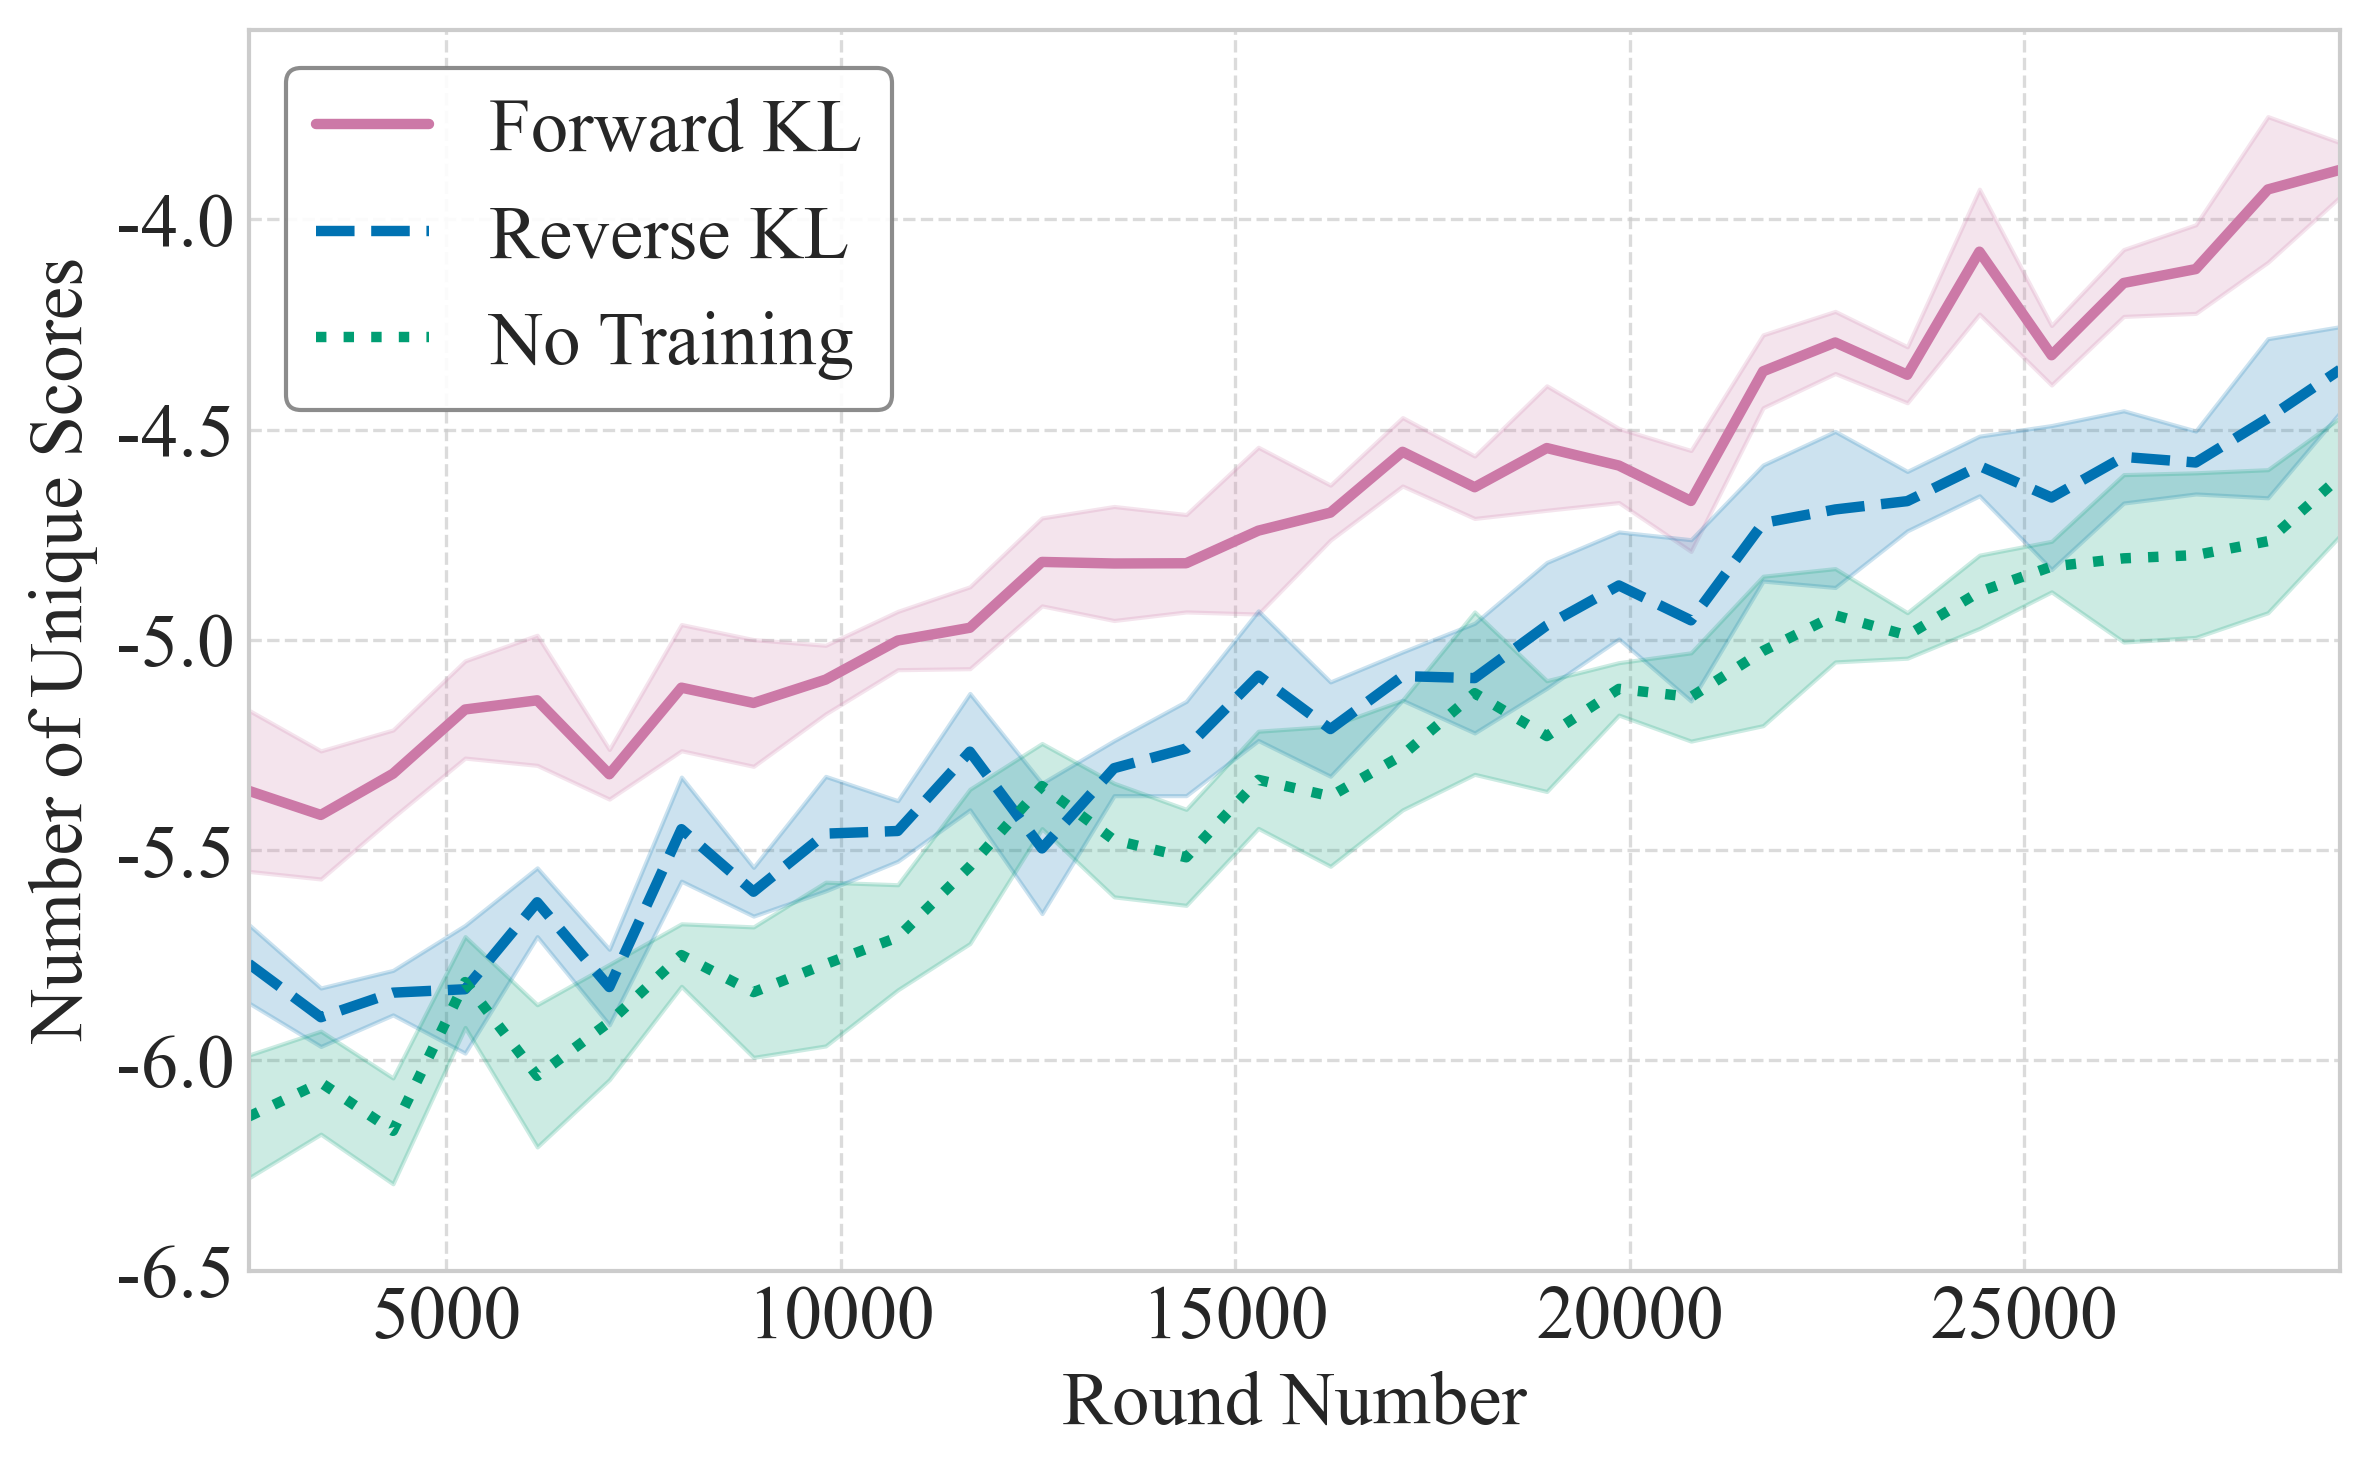
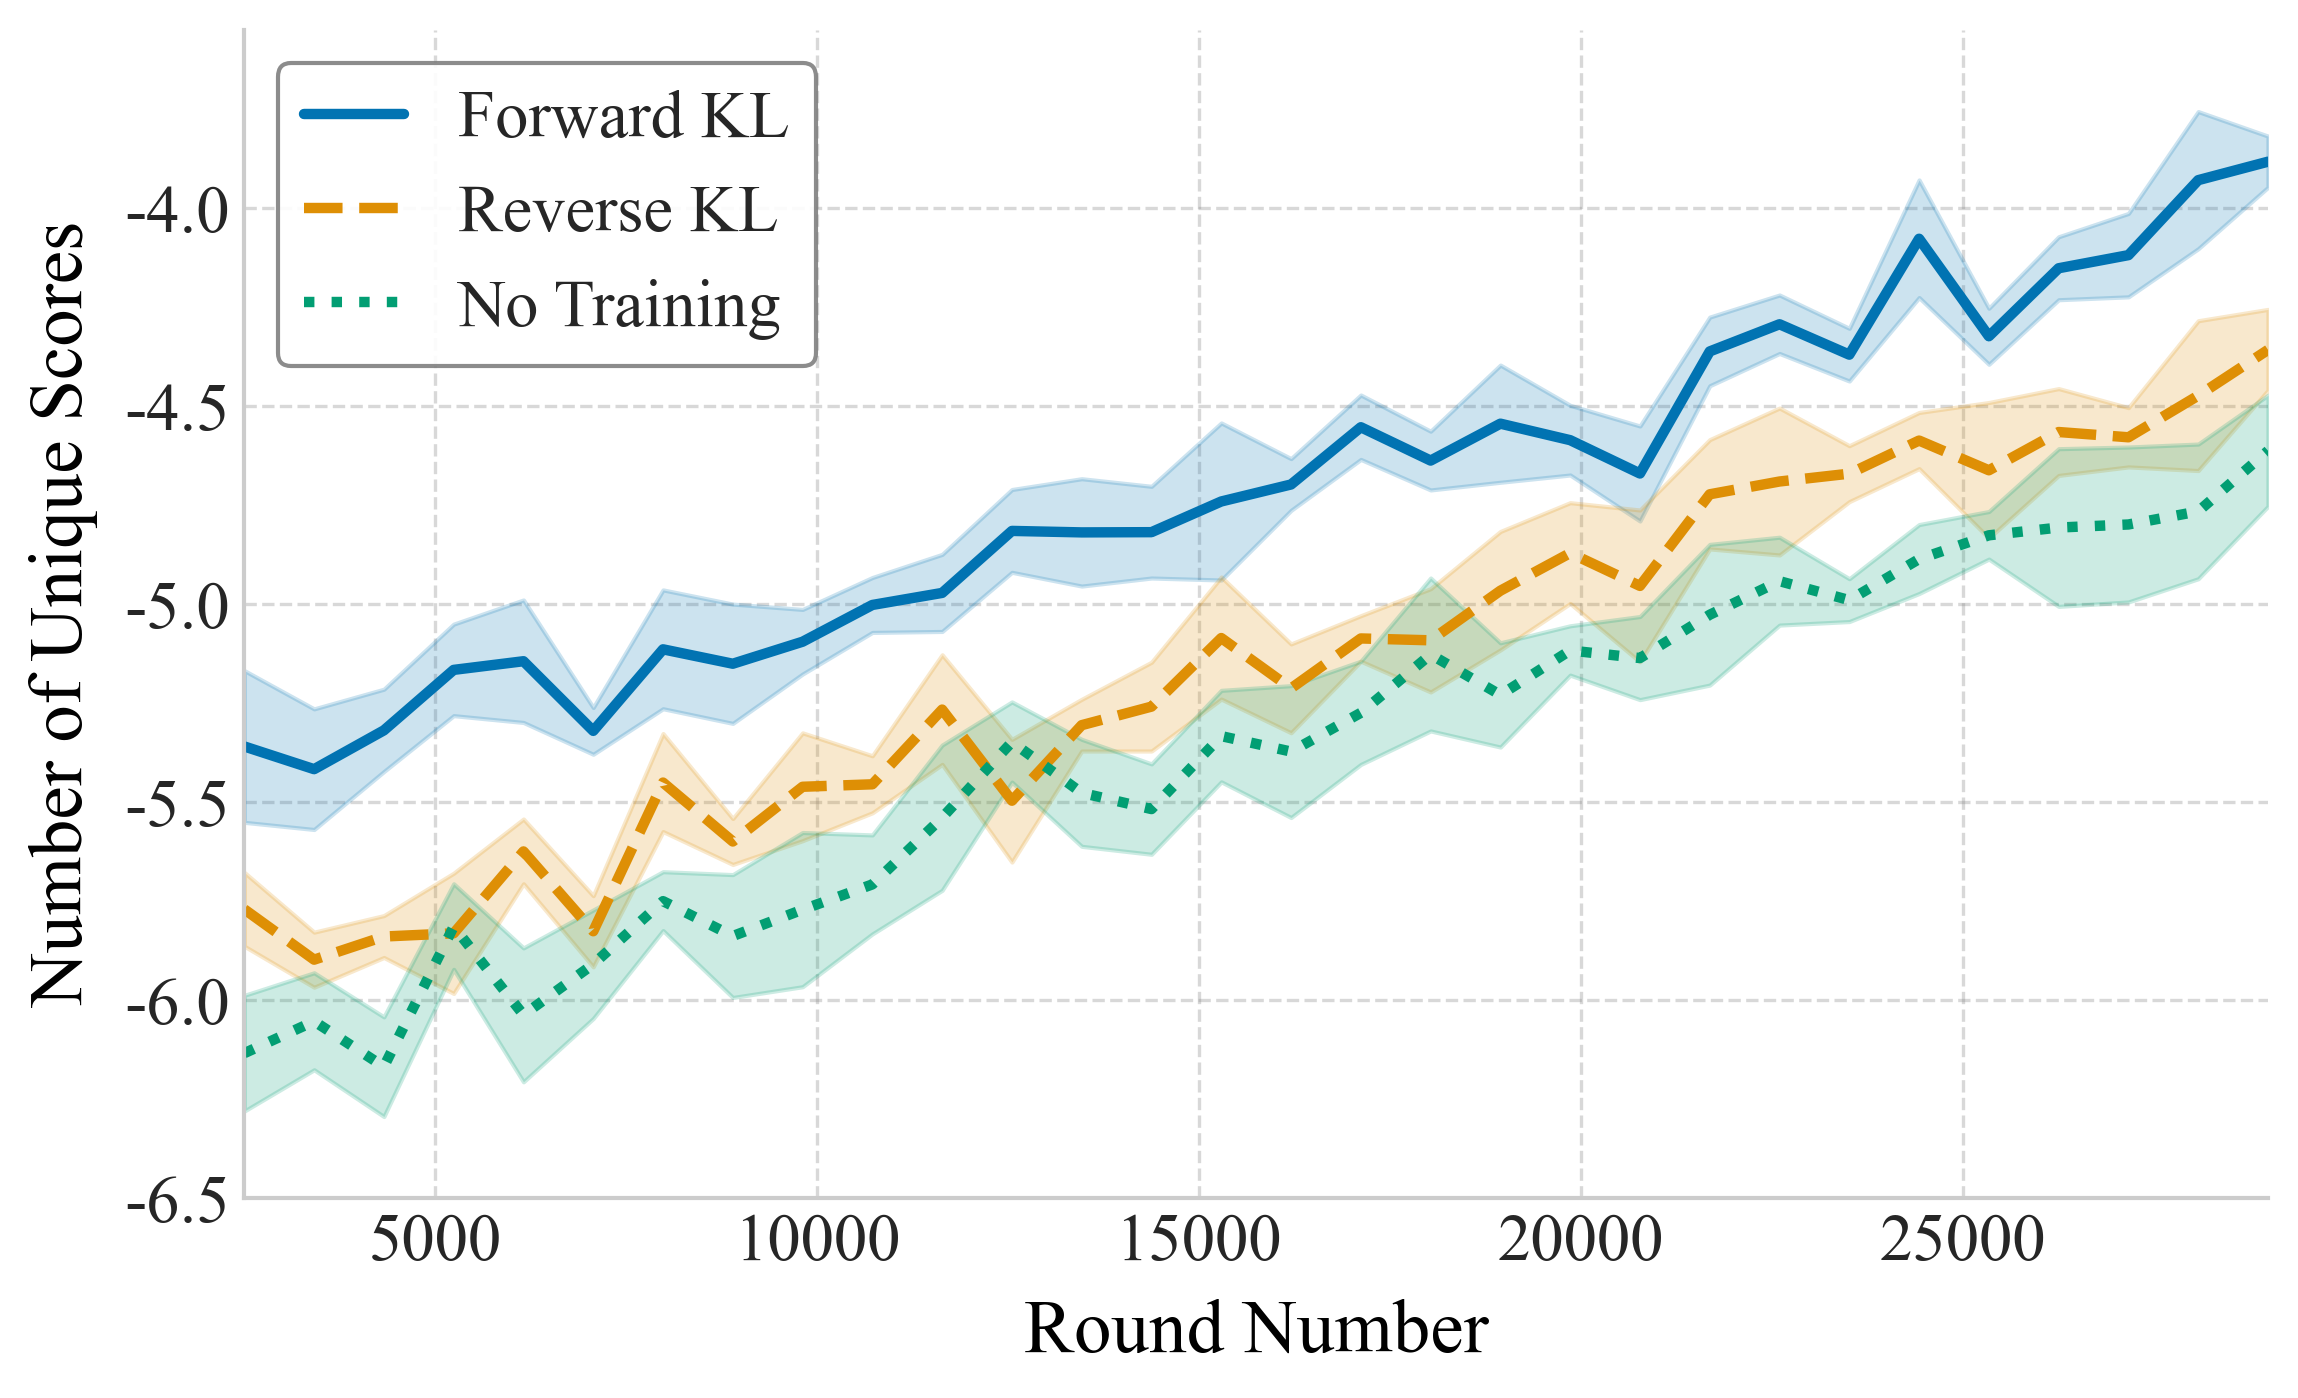
updated styles

diff --git a/paperviz/plots/base.py b/paperviz/plots/base.py
@@ -21,45 +21,98 @@ def register_theme(name, example_image=None):
 @register_theme("nature", example_image="nature.png")
 def nature_theme():
     return {
-        "font": "Arial",
-        "font_size": 14,
-        "grid": False,
-        "grid_style": "-",
-        "grid_alpha": 0.4,
-        "color_palette": "deep",
-        "linewidth": 1.5,
-        "style": "seaborn-v0_8-white",
-        "dpi": 300,
+        "font.family": "Arial",
+        "axes.titlesize": 14,
+        "axes.labelsize": 14,
+        "xtick.labelsize": 14,
+        "ytick.labelsize": 14,
+        "legend.fontsize": 14,
+        "legend.frameon": True,
+        "legend.framealpha": 0.9,
+        "legend.edgecolor": "black",
+        "legend.handlelength": 1.5,
+        "axes.grid": False,
+        "grid.linestyle": "-",
+        "grid.alpha": 0.4,
+        "lines.linewidth": 1.5,
+        "figure.dpi": 300,
+        "style": "seaborn-v0_8-white",  # special key (we'll pop it)
+        "color_palette": "deep",  # special key (same)
     }
 
 
 @register_theme("latex", example_image="latex.png")
 def latex_theme():
     return {
-        "font": "Times New Roman",
-        "font_size": 18,
-        "grid": True,
-        "grid_style": "--",
-        "grid_alpha": 0.7,
-        "color_palette": "colorblind",
-        "linewidth": 2.5,
-        "style": "seaborn-v0_8-whitegrid",
-        "dpi": 300,
+        # === Fonts ===
+        "font.family": "Times New Roman",  # Classic serif font for paper aesthetics
+        "font.size": 18,  # Base font size (can be overridden below)
+
+        # === Axes ===
+        "axes.labelsize": 18,  # Axis label font size
+        "axes.titlesize": 18,  # Title font size
+        "axes.labelpad": 6.0,  # Padding between axis and label
+        "axes.labelcolor": "black",  # Label font color
+        "axes.linewidth": 1.0,  # Thickness of axis borders
+        "axes.grid": True,  # Enable grid by default
+        "axes.grid.axis": "both",  # Grid lines for both axes
+        "axes.spines.top": False,  # Hide top spine
+        "axes.spines.right": False,  # Hide right spine
+
+        # === Grid ===
+        "grid.linestyle": "--",  # Dashed grid lines
+        # "grid.linewidth": 0.5,  # Thin grid lines
+        "grid.alpha": 0.3,  # Slight transparency
+        "grid.color": "gray",  # Neutral grid color
+
+        # === Ticks ===
+        "xtick.labelsize": 16, # x-axis label size
+        "ytick.labelsize": 16, # y-axis label size
+
+        # === Figure ===
+        "figure.dpi": 300,  # High-res export
+        "figure.figsize": (8, 5),  # Default figure size
+        "figure.facecolor": "white",  # Background for saved figures
+        "figure.autolayout": True,  # Avoid overlap
+
+        # === Lines ===
+        "lines.linewidth": 2.5,  # Thicker lines for visibility
+        "lines.markersize": 6,  # Reasonable default marker size
+
+        # === Legend ===
+        "legend.frameon": True,
+        "legend.framealpha": 0.9,
+        "legend.edgecolor": "grey",
+        "legend.fontsize": 16,
+        "legend.handlelength": 1.5,
+        "legend.loc": "best",
+
+        # === Style + Palette (handled outside rcParams) ===
+        "style": "seaborn-v0_8-whitegrid",  # Classic whitegrid with slight polish
+        "color_palette": "colorblind",  # Nice default for publication safety
     }
 
 
 @register_theme("dark_latex", example_image="dark_latex.png")
 def dark_latex_theme():
     return {
-        "font": "Times New Roman",  # Clean monospace
-        "font_size": 18,
-        "grid": True,
-        "grid_style": "--",
-        "grid_alpha": 0.3,
-        "color_palette": "dark",  # seaborn dark palette
-        "linewidth": 2.5,
-        "style": "dark_background",  # matplotlib built-in
-        "dpi": 300,
+        "font.family": "Times New Roman",
+        "axes.titlesize": 18,
+        "axes.labelsize": 18,
+        "xtick.labelsize": 18,
+        "ytick.labelsize": 18,
+        "legend.fontsize": 18,
+        "legend.frameon": True,
+        "legend.framealpha": 0.9,
+        "legend.edgecolor": "grey",
+        "legend.handlelength": 1.5,
+        "axes.grid": True,
+        "grid.linestyle": "--",
+        "grid.alpha": 0.3,
+        "lines.linewidth": 2.5,
+        "figure.dpi": 300,
+        "style": "dark_background",
+        "color_palette": "dark",
     }
 
 
@@ -67,26 +120,23 @@ def set_style(theme="latex", **overrides):
     if theme not in theme_registry:
         raise ValueError(f"Theme '{theme}' not found. Available themes: {list(theme_registry.keys())}")
 
+    # Reset to default
+    mpl.rcParams.update(mpl.rcParamsDefault)
+    plt.style.use('default')
+    sns.set_palette("tab10")
+
+    # Configs
     config = theme_registry[theme]["func"]()
     config.update(overrides)
 
-    # Apply general styles
-    plt.style.use(config["style"])
-    sns.set_palette(config["color_palette"])
+    # Special cases (non-rcParams)
+    style = config.pop("style", None)
+    palette = config.pop("color_palette", None)
 
-    font = config["font"]
-    font_size = config["font_size"]
+    if style:
+        plt.style.use(style)
+    if palette:
+        sns.set_palette(palette)
 
-    mpl.rcParams.update({
-        "font.family": font,
-        "axes.titlesize": font_size,
-        "axes.labelsize": font_size,
-        "xtick.labelsize": font_size,
-        "ytick.labelsize": font_size,
-        "legend.fontsize": font_size,
-        "axes.grid": config["grid"],
-        "grid.linestyle": config["grid_style"],
-        "grid.alpha": config["grid_alpha"],
-        "lines.linewidth": config["linewidth"],
-        "figure.dpi": config["dpi"],
-    })
+    # Apply all rcParams
+    mpl.rcParams.update(config)

diff --git a/paperviz/plots/simple_multiple_std_lines.py b/paperviz/plots/simple_multiple_std_lines.py
@@ -2,6 +2,8 @@ from paperviz.plots._registry import register_plot
 import matplotlib.pyplot as plt
 import matplotlib.ticker as mtick
 
+from paperviz.utils.plot import apply_legend
+
 
 @register_plot(
     name="multiple_std_lines",
@@ -56,8 +58,12 @@ def plot(
         x_formatter=None,
         y_formatter=None,
         save=None,
+        ax=None,
 ):
-    fig, ax = plt.subplots(figsize=figsize)
+    if ax is None:
+        fig, ax = plt.subplots(figsize=figsize)
+    else:
+        fig = ax.figure  # Use the one passed by layout
 
     for label, data in data_dict.items():
         display_name = label_map.get(label, label) if label_map else label
@@ -68,12 +74,12 @@ def plot(
         y = data[y_key]
         yerr = data[yerr_key]
 
-        ax.plot(x, y, label=display_name, color=color, linestyle=linestyle)
-        ax.fill_between(x, y - yerr, y + yerr, color=color, alpha=0.2)
+        line, = ax.plot(x, y, label=display_name, color=color, linestyle=linestyle)
+        fill_color = color if color is not None else line.get_color()
+        ax.fill_between(x, y - yerr, y + yerr, color=fill_color, alpha=0.2)
 
-    legend = ax.legend(loc=legend_loc, frameon=True, handlelength=1.5)
-    legend.get_frame().set_edgecolor("grey")
-    legend.get_frame().set_alpha(0.9)
+    if legend_loc:
+        ax.legend(loc=legend_loc)
 
     # Formatters
     if x_formatter:

diff --git a/scripts/create_theme_example_images.py b/scripts/create_theme_example_images.py
@@ -34,7 +34,7 @@ if __name__ == '__main__':
         },
     }
 
-    for theme in theme_registry.keys():
+    for theme in ["latex"]: # theme_registry.keys():
         set_style(theme)
 
         fig, ax = plot(
@@ -50,11 +50,11 @@ if __name__ == '__main__':
                 "reverse-method": "dashed",
                 "baseline": "dotted",
             },
-            color_map={
-                "forward-method": "#CC79A7",
-                "reverse-method": "#0072B2",
-                "baseline": "#009E73",
-            },
+            # color_map={
+            #     "forward-method": "#CC79A7",
+            #     "reverse-method": "#0072B2",
+            #     "baseline": "#009E73",
+            # },
             xlabel="Round Number",
             ylabel="Number of Unique Scores",
             xlim=(250, 2900),

diff --git a/paperviz/utils/plot.py b/paperviz/utils/plot.py
@@ -1,0 +1,12 @@
+import matplotlib as mpl
+
+def apply_legend(ax):
+    print(mpl.rcParams)
+    return ax.legend(
+        loc=mpl.rcParams["legend.loc"],
+        frameon=mpl.rcParams["legend.frameon"],
+        framealpha=mpl.rcParams["legend.framealpha"],
+        edgecolor=mpl.rcParams["legend.edgecolor"],
+        handlelength=mpl.rcParams["legend.handlelength"],
+        fontsize=mpl.rcParams["legend.fontsize"],
+    )
